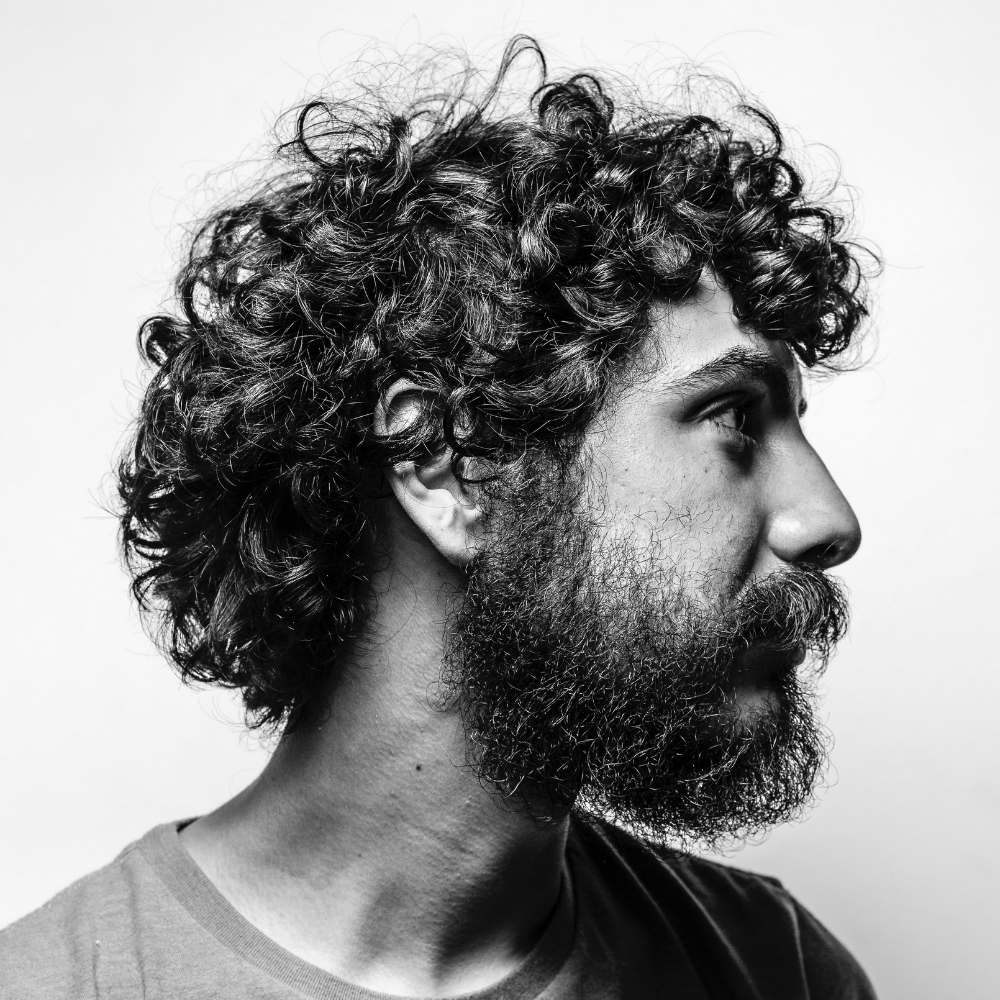
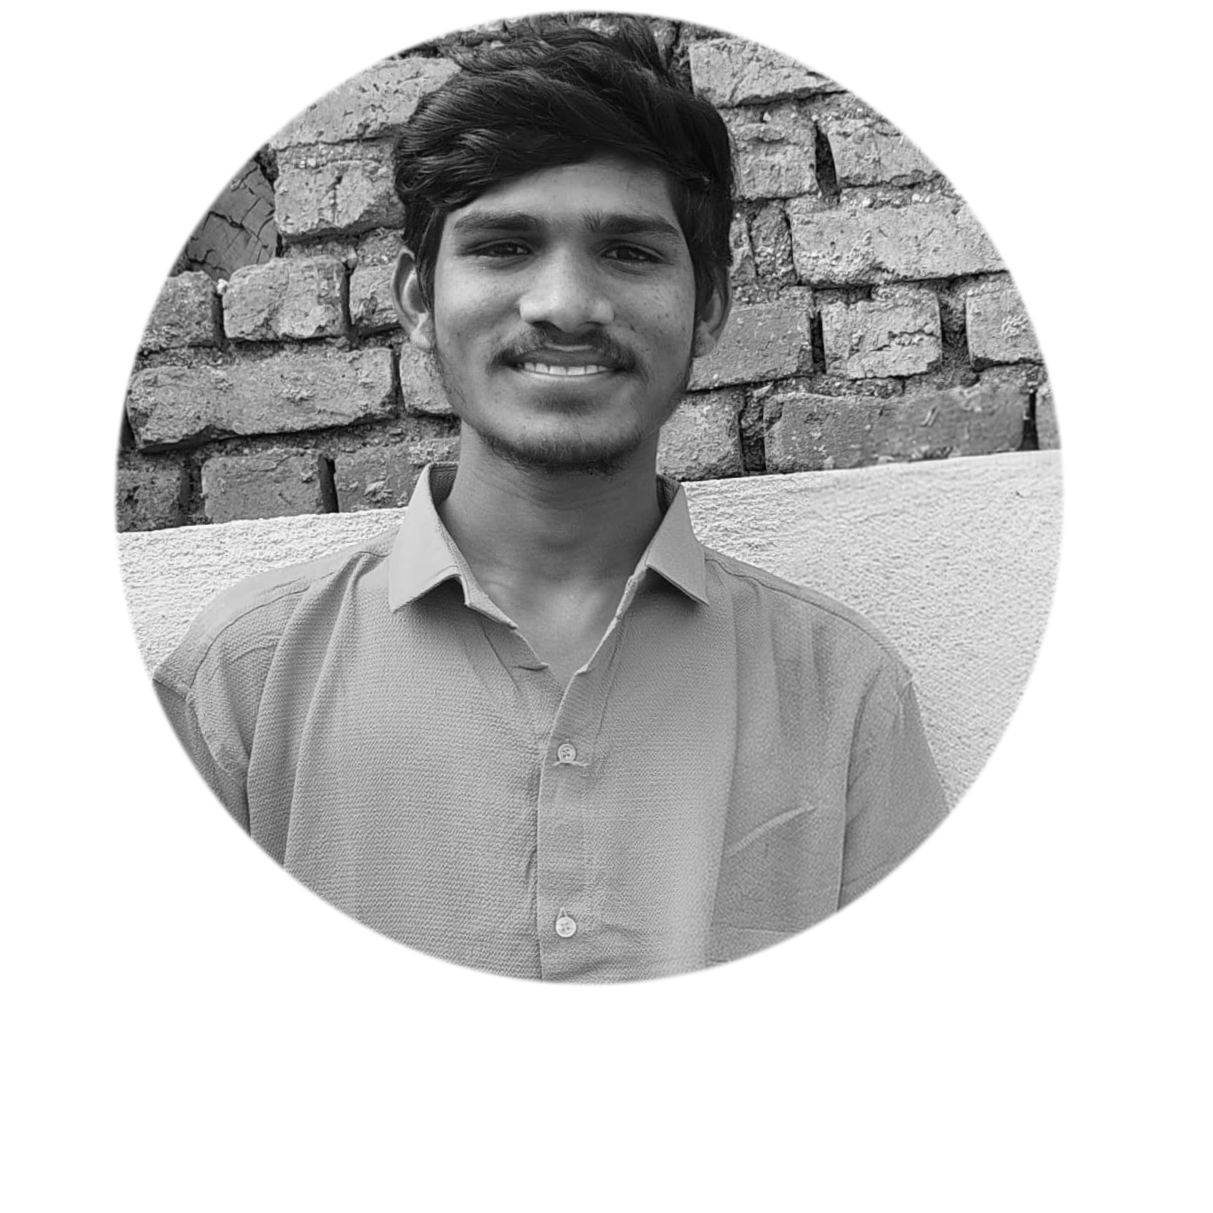
Phase1

diff --git a/index.html b/index.html
@@ -38,7 +38,7 @@
     </nav>
     <section id="profile">
       <div class="section__pic-container">
-        <img src="./assets/profile-pic.png" alt="John Doe profile picture" />
+        <img src="./assets/about-pic.png" alt="John Doe profile picture" />
       </div>
       <div class="section__text">
         <p class="section__text__p1">Hello, I'm</p>
@@ -75,15 +75,20 @@
       <p class="section__text__p1">Get To Know More</p>
       <h1 class="title">About Me</h1>
       <div class="section-container">
-        <div class="section__pic-container">
+
+        <!-- Profile picture -->
+        <!-- <div class="section__pic-container">
           <img
             src="./assets/about-pic.png"
             alt="Profile picture"
             class="about-pic"
           />
-        </div>
+        </div> -->
         <div class="about-details-container">
           <div class="about-containers">
+
+
+            <!--Experience table-->>
             <!-- <div class="details-container">
               <img
                 src="./assets/experience.png"
@@ -93,14 +98,34 @@
               <h3>Experience</h3>
               <p>2+ years <br />FullStack Develop</p>
             </div> -->
+
+            <!-- Education -->
             <div class="details-container">
               <img
                 src="./assets/education.png"
                 alt="Education icon"
                 class="icon"
               />
-              <h3>Education</h3>
-              <p>B.Tech - CSE(AI&ML)<br />CMR College of Engineering and Technology</p>
+              <h3>B.Tech - CSE(AI&ML)</h3>
+              <p>CMR College of Engineering and Technology<br>2022-2026</p>
+            </div>
+            <div class="details-container">
+              <img
+                src="./assets/education.png"
+                alt="Education icon"
+                class="icon"
+              />
+              <h3>Intermediate</h3>
+              <p>Alphores Junior college<br>2020-2022</p>
+            </div>
+            <div class="details-container">
+              <img
+                src="./assets/education.png"
+                alt="Education icon"
+                class="icon"
+              />
+              <h3>Secondary Schooling</h3>
+              <p>ZP High School<br />2020</p>
             </div>
           </div>
           <div class="text-container">
@@ -117,6 +142,9 @@
         onclick="location.href='./#experience'"
       />
     </section>
+
+    
+    <!--Skills-->
     <section id="experience">
       <p class="section__text__p1">Explore My</p>
       <h1 class="title">Skills</h1>
@@ -155,7 +183,7 @@
                 />
                 <div>
                   <h3>SASS</h3>
-                  <p>Intermediate</p>
+                  <p>Experienced</p>
                 </div>
               </article>
               <article>
@@ -166,7 +194,7 @@
                 />
                 <div>
                   <h3>JavaScript</h3>
-                  <p>Basic</p>
+                  <p>Intermediate</p>
                 </div>
               </article>
               <article>
@@ -176,7 +204,7 @@
                   class="icon"
                 />
                 <div>
-                  <h3>TypeScript</h3>
+                  <h3>ReactJs</h3>
                   <p>Basic</p>
                 </div>
               </article>
@@ -194,7 +222,7 @@
             </div>
           </div>
           <div class="details-container">
-            <h2 class="experience-sub-title">Frontend Development</h2>
+            <h2 class="experience-sub-title">Backend Development</h2>
             <div class="article-container">
               <article>
                 <img
@@ -203,7 +231,7 @@
                   class="icon"
                 />
                 <div>
-                  <h3>PostgreSQL</h3>
+                  <h3>MongoDB</h3>
                   <p>Basic</p>
                 </div>
               </article>
@@ -251,6 +279,9 @@
         onclick="location.href='./#projects'"
       />
     </section>
+
+
+    <!-- Projects Section -->
     <section id="projects">
       <p class="section__text__p1">Browse My Recent</p>
       <h1 class="title">Projects</h1>
@@ -259,12 +290,15 @@
           <div class="details-container color-container">
             <div class="article-container">
               <img
-                src="./assets/project-1.png"
+                src="./assets/Alumni_gemini.png"
                 alt="Project 1"
                 class="project-img"
               />
             </div>
-            <h2 class="experience-sub-title project-title">Project One</h2>
+            <h2 class="experience-sub-title project-title">AlumniConnect</h2>
+            <p><i>In progress</i></p>
+
+            <!-- <p class="tagline">A platform to bridge Gap between Alumni and Students in Campus. Connecting Curiosity with Exeperience.</p> -->
             <div class="btn-container">
               <button
                 class="btn btn-color-2 project-btn"
@@ -283,12 +317,15 @@
           <div class="details-container color-container">
             <div class="article-container">
               <img
-                src="./assets/project-2.png"
+                src="./assets/JustCode_gemini.png"
                 alt="Project 2"
                 class="project-img"
               />
             </div>
-            <h2 class="experience-sub-title project-title">Project Two</h2>
+            <h2 class="experience-sub-title project-title">JustCode</h2>
+            <p><i>In progress</i></p>
+
+            <!-- <p class="tagline">An Ai powered platform that provides everything you need for learning and practicing coding.</p> -->
             <div class="btn-container">
               <button
                 class="btn btn-color-2 project-btn"
@@ -307,12 +344,15 @@
           <div class="details-container color-container">
             <div class="article-container">
               <img
-                src="./assets/project-3.png"
+                src="./assets/IntervieMe_gemini.png"
                 alt="Project 3"
                 class="project-img"
               />
             </div>
-            <h2 class="experience-sub-title project-title">Project Three</h2>
+            <h2 class="experience-sub-title project-title">InterviewMe</h2>
+            <p><i>In progress</i></p>
+
+            <!-- <p class="tagline">An Ai powered interview buddy that trains and tests you for any kind of interview.</p> -->
             <div class="btn-container">
               <button
                 class="btn btn-color-2 project-btn"
